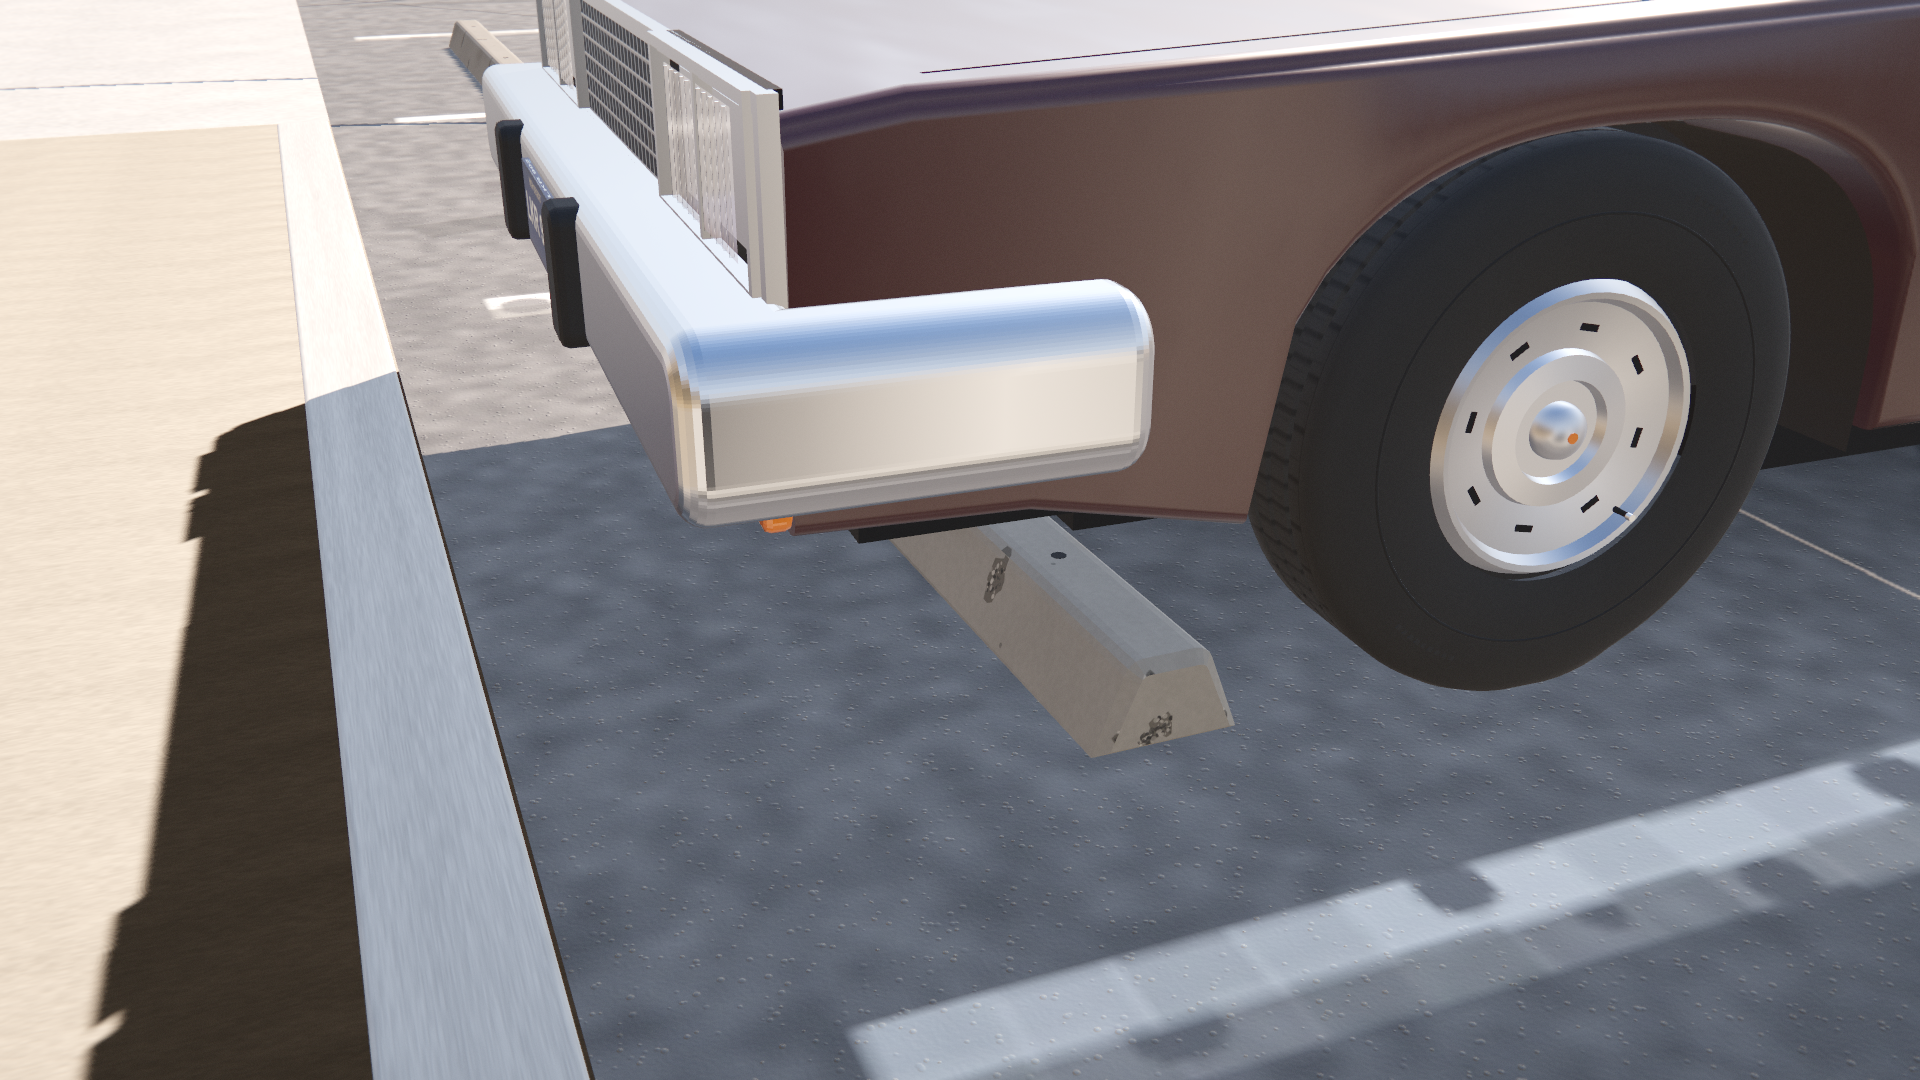
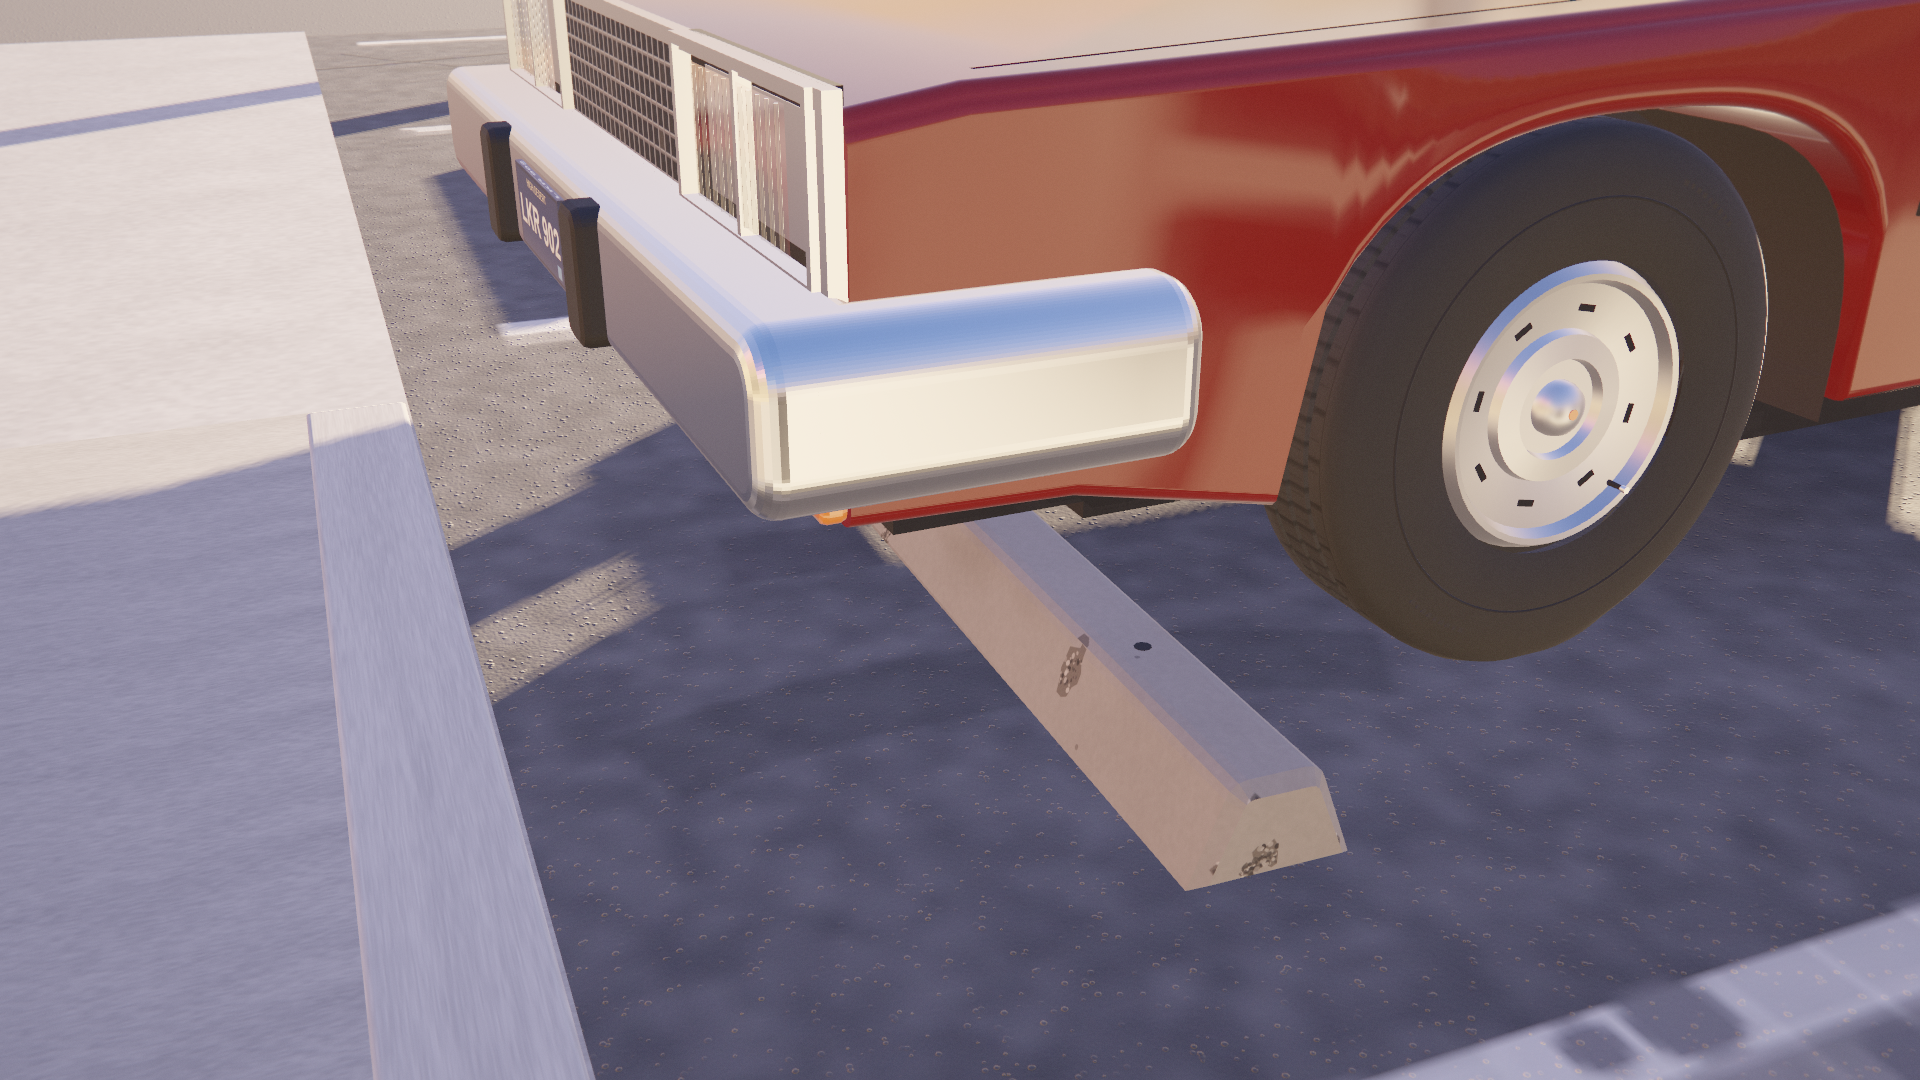
fix-sign-car: OPEN face drawn under the pane (renderOrder 9: it is behind the depth-writing glass from the lot; polygonOffset only rescued it at a distance); sedan to stall 7 clear of the door with a kept wheel stop; car footprint AABBs registered as player colliders; sedan poses follow; BUILD.md fi

diff --git a/src/scene/Exterior.ts b/src/scene/Exterior.ts
@@ -43,6 +43,8 @@ export interface ExteriorResult {
   /** Materials whose envMap should be the lot probe (sky + facade). */
   envMaterials: THREE.Material[];
   sky: THREE.Mesh;
+  /** Player AABBs on the lot: one per parked car (buildCar). */
+  colliders: MergedBuilder["colliders"];
 }
 
 /**
@@ -612,6 +614,16 @@ export function makePaneGlass(alpha0: number, envInt: number): THREE.MeshPhysica
 
 function buildCar(b: MergedBuilder, parent: THREE.Object3D, spec: CarSpec, mats: CarMats, sink: CarSink, at: THREE.Vector3, yaw: number): void {
   const M = new THREE.Matrix4().makeRotationY(yaw).setPosition(at);
+  // Player collider (fix-sign-car): the body's footprint (±hw × length, roof height) through
+  // the same matrix, as one world AABB — so it moves with the car by construction. The lot had
+  // no colliders at all; with the sedan across the door line the player walked into its
+  // paint. Registered on the exterior builder and handed to Diner.colliders like the rest.
+  {
+    const roof = Math.max(...spec.top.map((s) => s[1]));
+    const box = new THREE.Box3();
+    for (const x of [-spec.hw, spec.hw]) for (const z of [0, spec.length]) box.expandByPoint(new THREE.Vector3(x, 0, z).applyMatrix4(M));
+    b.collider([box.min.x, at.y, box.min.z], [box.max.x, at.y + roof, box.max.z]);
+  }
   // Casting is decided per material by MergedBuilder (material.userData.noCast): the body, tyres
   // and glass cast, every trim / interior material is flagged.
   const place = (g: THREE.BufferGeometry, mat: THREE.Material) => {
@@ -1516,11 +1528,24 @@ export function buildExterior(diner: THREE.Group, pal: Palette, sunDir: THREE.Ve
   pinMat.userData.noCast = true;
   const scuffMat = new THREE.MeshStandardMaterial({ color: 0x1a1816, roughness: 1, metalness: 0, transparent: true, opacity: 0.4, depthWrite: false, polygonOffset: true, polygonOffsetFactor: -1, polygonOffsetUnits: -1 });
   scuffMat.userData.noCast = true;
+  // The sedan's stall (fix-sign-car): stall 6 (x ≈ 4.05) put the car across the front door's
+  // line (door centre x 4.95, leaf 4.5–5.4; the sedan's flank reached 4.87), so a player
+  // stepping out walked into its fender. Stall 7 is the next one along the frontage, clear of
+  // a 2 m straight path from the threshold. It is an odd stall, which the draw below leaves
+  // without a wheel stop half the time (and does here) — the sedan is nosed in against a bar,
+  // so this stall keeps its bar, built from its own seeded draws so the lot's main sequence
+  // (every other stop's jitter, the scrub edge, the ruts) is exactly what it was.
+  const SEDAN_STALL = 7;
+  const forcedStopRng = makeRng(3302 + SEDAN_STALL);
   for (let i = 0; i < stallLinesX.length - 1; i++) {
-    if (i % 2 === 1 && rng() < 0.5) continue;
-    const cx = (stallLinesX[i] + stallLinesX[i + 1]) / 2 + (rng() - 0.5) * 0.06;
-    const z = LOT.kerbZ + LOT.stopZ + (rng() - 0.5) * 0.04;
-    const skew = (rng() - 0.5) * 0.03; // a degree or so off square, as they are set by eye
+    let r = rng;
+    if (i % 2 === 1 && rng() < 0.5) {
+      if (i !== SEDAN_STALL) continue;
+      r = forcedStopRng;
+    }
+    const cx = (stallLinesX[i] + stallLinesX[i + 1]) / 2 + (r() - 0.5) * 0.06;
+    const z = LOT.kerbZ + LOT.stopZ + (r() - 0.5) * 0.04;
+    const skew = (r() - 0.5) * 0.03; // a degree or so off square, as they are set by eye
     // Rev 7: the real trapezoidal section — 7.6" base, 4.9" tall, faces sloping in to a 4.6"
     // top with 10 mm rounds, and 15 mm chamfered ends (the extrusion bevel, so the shape is
     // drawn 15 mm inside the finished section). Rev 6 was a sharp rectangular prism.
@@ -1539,11 +1564,11 @@ export function buildExterior(diner: THREE.Group, pal: Palette, sunDir: THREE.Ve
     b.add(bar, stopMat);
     // Tyre scuffs on the lot-side face (+z): two smeared bands at the track width, uneven
     for (const sx of [-1, 1]) {
-      const w = 0.3 + rng() * 0.25, h0 = 0.03 + rng() * 0.02, h1 = 0.09 + rng() * 0.03;
+      const w = 0.3 + r() * 0.25, h0 = 0.03 + r() * 0.02, h1 = 0.09 + r() * 0.03;
       const scuff = new THREE.PlaneGeometry(w, h1 - h0);
       const yc = (h0 + h1) / 2;
       scuff.rotateX(-faceTilt); // lie on the sloped face
-      scuff.translate(sx * (0.62 + rng() * 0.16), yc, B - (B - T) * (yc / H) + 0.0015);
+      scuff.translate(sx * (0.62 + r() * 0.16), yc, B - (B - T) * (yc / H) + 0.0015);
       scuff.rotateY(skew);
       scuff.translate(cx, yLot, z);
       b.add(scuff, scuffMat);
@@ -1733,7 +1758,10 @@ export function buildExterior(diner: THREE.Group, pal: Palette, sunDir: THREE.Ve
   // past it, 0.48 m off the kerb), the sedan's 0.08 m short (bumper 0.48 m past, 0.20 m off the kerb).
   const stopFace = LOT.kerbZ + LOT.stopZ + 0.1;
   buildCar(b, parent, pickup, carMats, sink, new THREE.Vector3(stall(4) + 0.12, yLot, stopFace + 0.1 - (pickup.wheelZ[0] - pickup.wheelR)), THREE.MathUtils.degToRad(1.5));
-  buildCar(b, parent, sedan, carMats, sink, new THREE.Vector3(stall(6) - 0.08, yLot, stopFace + 0.08 - (sedan.wheelZ[0] - sedan.wheelR)), THREE.MathUtils.degToRad(-2));
+  // Sedan in stall 7 (was stall 6 − 0.08, across the door's line — see SEDAN_STALL above), parked
+  // 15 cm right of the stall centre and toed +2° so the tail drifts AWAY from the door: its
+  // near flank is x ≥ 6.0 along the whole body, 2.0 m+ clear of the door's centre line (4.95).
+  buildCar(b, parent, sedan, carMats, sink, new THREE.Vector3(stall(SEDAN_STALL) + 0.15, yLot, stopFace + 0.08 - (sedan.wheelZ[0] - sedan.wheelR)), THREE.MathUtils.degToRad(2));
   for (const [list, mat, name] of [[sink.panes, carMats.glass, "car-glass"], [sink.lenses, carMats.lensGlass, "lamp-glass"]] as Array<[THREE.BufferGeometry[], THREE.Material, string]>) {
     const mesh = new THREE.Mesh(mergeLoose(list), mat);
     mesh.renderOrder = 5; // after every other opaque (the cabin, the far pane's backdrop) — blended, see makePaneGlass
@@ -2103,5 +2131,5 @@ export function buildExterior(diner: THREE.Group, pal: Palette, sunDir: THREE.Ve
 
   b.build(parent, { name: "exterior" });
   parent.traverse((o) => { o.userData.lotCaster = true; });
-  return { envMaterials, sky };
+  return { envMaterials, sky, colliders: b.colliders };
 }

diff --git a/src/scene/Door.ts b/src/scene/Door.ts
@@ -183,12 +183,26 @@ export function buildDoor(parent: THREE.Group, pal: Palette): THREE.Group {
   // (Inside is also the only place decals can be: three.js's transmission buffer holds
   // opaque objects only, so a transparent decal on the far side of transmissive glass
   // never shows.)
-  const decals: THREE.BufferGeometry[] = [];
+  //
+  // Draw order against the glazing (fix-sign-car, after System 4 rev 6). Every quad sits
+  // 1.5–2.5 mm on the ROOM side of the pane, and the pane's transmission leaf writes depth
+  // (Glazing.ts: the haze march reads it). So the room-facing quads are in FRONT of the pane
+  // for a viewer in the room and draw after it (renderOrder 12 — decal over glass, as before),
+  // but the street-facing OPEN face is BEHIND the pane for a viewer on the lot: drawn after the
+  // pane it fails the depth test everywhere the pane has written, and only survived at a
+  // distance because the decal material's polygonOffset slope term (−1 × dz/dpixel) happens to
+  // exceed 1.5 mm when a pixel spans a few mm of glass — which is why the sign "vanished" as
+  // the camera closed in. The physically right order for something seen THROUGH glass is
+  // decal first, pane over it, so the OPEN quad is its own mesh at renderOrder 9 (< the pane's
+  // 10) and the pane's alpha/Fresnel and the lot reflection leaf composite over it exactly as
+  // over the room behind it. Nothing else changes: same material, same quads, same offsets.
+  const roomDecals: THREE.BufferGeometry[] = [];
+  const streetDecals: THREE.BufferGeometry[] = [];
   const stick = (w: number, h: number, x: number, y: number, region: readonly [number, number, number, number], mirrored: boolean, z = -0.0015, faceStreet = false) => {
     const g = atlasQuad(w, h, region, mirrored);
     if (!faceStreet) g.rotateY(Math.PI); // face −z (the room)
     g.translate(x, y, z);
-    decals.push(g);
+    (faceStreet ? streetDecals : roomDecals).push(g);
   };
   const glassMidX = leafW / 2;
   stick(0.3, 0.2, glassMidX + 0.05, gy1 - 0.16, DECAL.open, false, -0.0015, true);
@@ -196,10 +210,14 @@ export function buildDoor(parent: THREE.Group, pal: Palette): THREE.Group {
   stick(0.12, 0.05, glassMidX, barY + 0.095, DECAL.push, false);
   stick(0.2, 0.26, gx1 - 0.15, 1.45, DECAL.hours, true);
   stick(0.085, 0.055, gx1 - 0.09, 1.12, DECAL.cards, true);
-  const decalMesh = new THREE.Mesh(mergeGeometries(decals, false)!, pal.decal);
-  decalMesh.renderOrder = 12;
+  const decalMesh = new THREE.Mesh(mergeGeometries(roomDecals, false)!, pal.decal);
+  decalMesh.renderOrder = 12; // in front of the pane from the room: over the glass
   decalMesh.name = "door-decals";
   hinge.add(decalMesh);
+  const streetMesh = new THREE.Mesh(mergeGeometries(streetDecals, false)!, pal.decal);
+  streetMesh.renderOrder = 9; // behind the pane from the lot: under the glass, seen through it
+  streetMesh.name = "door-decals-street";
+  hinge.add(streetMesh);
 
   parent.add(hinge);
   return hinge;

diff --git a/src/scene/Diner.ts b/src/scene/Diner.ts
@@ -123,7 +123,7 @@ export class Diner {
     this.coffeePot = props.coffeePot;
     this.stoolSeats = counter.stoolSeats;
     this.fanRotor = ceiling.fanRotor;
-    this.colliders.push(...shell.colliders, ...booths.colliders, ...counter.colliders, ...backCounter.colliders);
+    this.colliders.push(...shell.colliders, ...booths.colliders, ...counter.colliders, ...backCounter.colliders, ...exterior.colliders);
 
     scene.add(this.group);
     const lights = buildLighting(scene);

diff --git a/BUILD.md b/BUILD.md
@@ -3323,6 +3323,66 @@ and the clock kept running, so by screenshot time the blind had finished raising
 bundle (~3 cm under the headrail) reads as "clear glass" from the booth. `seek()` now freezes the
 timeline (`frozen`); the next toggle/reset releases it. In-game F was never affected.
 
+## Fix — OPEN sign vanishing up close; sedan across the door (`fix-sign-car`, `shots/fix-sign-*.png`, `shots/fix-car-*.png`)
+
+**A. The OPEN face of the door's flip card was visible from the lot at a few metres and gone
+up close** (`fix-sign-before-{far,near}.png`; straight-on it is missing even at 3 m — the
+user's oblique frame was the lucky case).
+
+*Root cause.* Not a sort-order flip: three sorts the transparent list by `renderOrder` before
+distance, and the door's leaves and quads all carry explicit orders (dumped live: pane 10
+`depthWrite` on; reflection leaves 10.5 off; smudge 11 off; decals 12 off, `polygonOffset
+−1/−2`). The problem is depth. Since System 4 rev 6 the pane's transmission leaf writes depth
+(Glazing.ts — the haze march reads the pane plane), and every signage quad sits 1.5–2.5 mm on
+the ROOM side of the pane. From the room the quads are in front of the pane, draw after it
+(12 > 10) and pass — CLOSED / HOURS / PUSH / cards were never affected. The street-facing OPEN
+quad is the same 1.5 mm *behind* the pane for a viewer on the lot, so drawn after it, it fails
+the depth test everywhere the pane has written. It only ever showed where the decal material's
+`polygonOffset` slope term (−1 × the depth change per pixel) exceeded 1.5 mm — an oblique view at
+a few metres, where one pixel spans several mm of glass — and disappeared as the camera closed
+in and a pixel shrank to a fraction of a millimetre. Proof: `fix-sign-before-near-pane-nodepthwrite.png`
+is the same 0.7 m frame with only the pane's `depthWrite` switched off at runtime — the sign is
+there.
+
+*Fix* (Door.ts, ordering only — no material, geometry, lighting, Fresnel/alpha or exposure
+change): the OPEN quad is its own mesh (`door-decals-street`, same atlas material) at
+`renderOrder 9`, i.e. drawn *before* the pane, which is the physically right order for a card
+seen *through* glass — the pane's `(1 − F)(1 − a0)` alpha and the lot-facing reflection leaf
+then composite over it exactly as over the room behind it. The room-facing quads stay at 12.
+The pane keeps `depthWrite` (the haze march needs it). Verified from the lot at 3 / 1.5 / 0.7 m
+(`fix-sign-after-{far,mid,near}.png`, `-far-oblique`) and from the room at 3 / 1.5 / 0.7 m
+(`fix-sign-after-inside.png` = 0.7 m; the two farther frames were shot and checked, not kept):
+block-mean diffs vs before are confined to the lot seen through the pane where the sedan moved
+(B); the CLOSED/HOURS band is unchanged. Not changed, noted: the HOURS and card quads face the
+room only (they were placed under the transmission-era rule that a decal behind the glass could
+not show), so from the lot the door still shows no hours; the greasy smudge decal (11, 1 mm
+inside) is likewise depth-culled from the lot. Both would be the same one-line ordering change
+if wanted.
+
+**B. The maroon sedan sat in stall 6 (x ≈ 3.97), its flank at 4.87 across the door's line**
+(door centre 4.95, leaf 4.5–5.4; `fix-car-before-{door,top}.png`). The lot had no player
+colliders at all — the pickup and sedan were walk-through — so "blocked" was the body clipping
+through the paint.
+
+*Fix* (Exterior.ts, Diner.ts): the sedan is in stall 7 (`SEDAN_STALL`, x 6.90 = stall centre
++ 0.15, toed +2° so the tail drifts away from the door), nose over a wheel stop as before. Stall
+7 is an odd stall the seeded draw leaves without a bar; it now keeps one, built from its own
+`makeRng(3309)` so the lot's main sequence (every other stop, the scrub edge, the ruts) is
+untouched. Each car registers one world AABB of its footprint through the same placement matrix
+(`buildCar` → `ExteriorResult.colliders` → `Diner.colliders`), so the collider is the mesh's by
+construction: live dump sedan x 6.00–7.97, z 5.60–10.61; pickup −2.13 to −0.20. Walk-through via
+`__player.keys` from x = 4.55 / 4.95 / 5.35 at the threshold (z 3.9): 5.0 m straight out with zero
+lateral deflection; walking +x toward the flank stops at x 5.72 = 6.00 − the 0.28 m player
+radius. Clear width between the two cars is 6.2 m; the door-centred 2 m path has 5 cm to spare
+on the sedan side. Shadows are baked once at boot after placement — the re-shot frames show the
+sedan's shadow on stall 7/8 asphalt (`fix-car-after-{door,top,shadow}.png`). Poses: the sedan
+poses in `tools/shoot.mjs` moved with the car (+2.93 in x: `dbg-sedan-front34/rear34`,
+`dbg-wheel`, `dbg-wheelstop`), `door-glass` turns 12° toward +x (yaw 193) so the car stays in the
+pane, `dbg-wall-road` (stall 5) is unchanged; their `sys3-*` frames are re-shot. `lot-wide` looks at
+the pickup and is unaffected. The `sys4-lot-shadow` / `ext-facade` frames came from a throwaway
+harness (no pose in the repo) — `fix-car-after-shadow.png` is the equivalent 3/4 view at the new
+stall.
+
 ## System status
 
 | # | System | Status |
